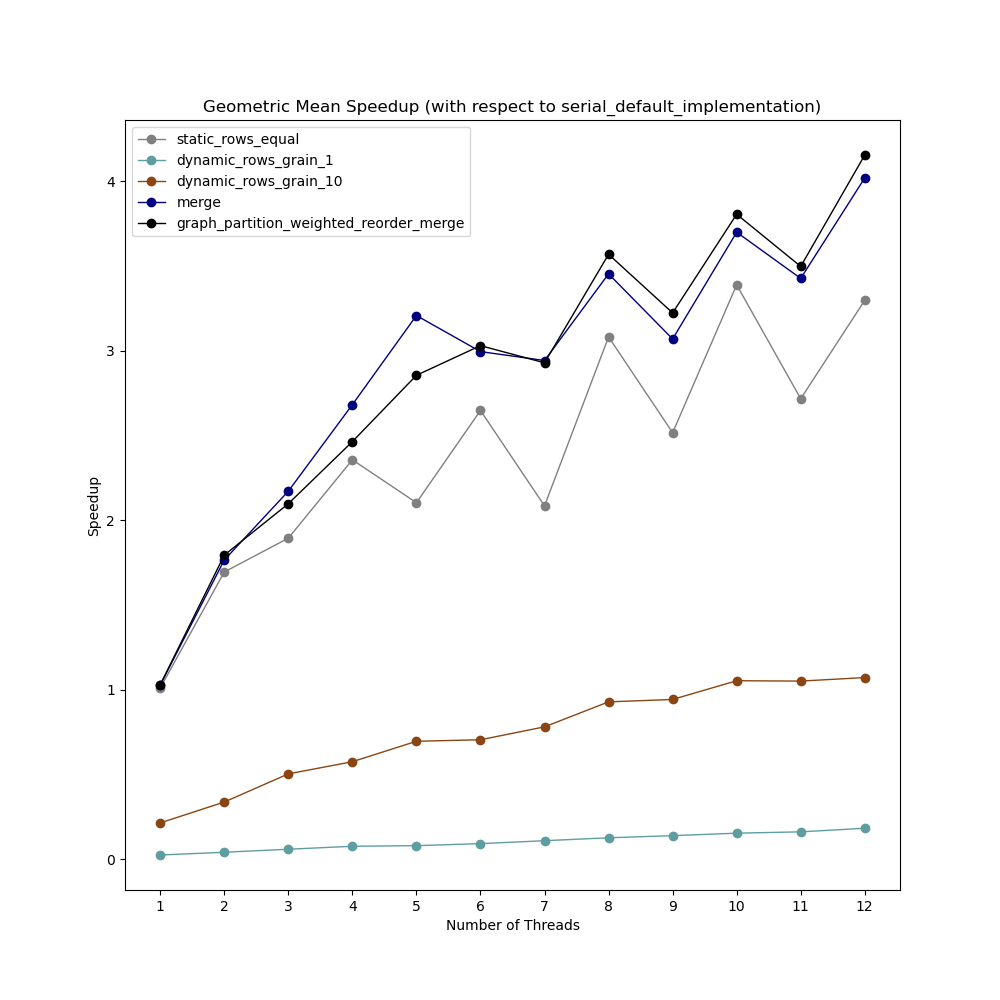
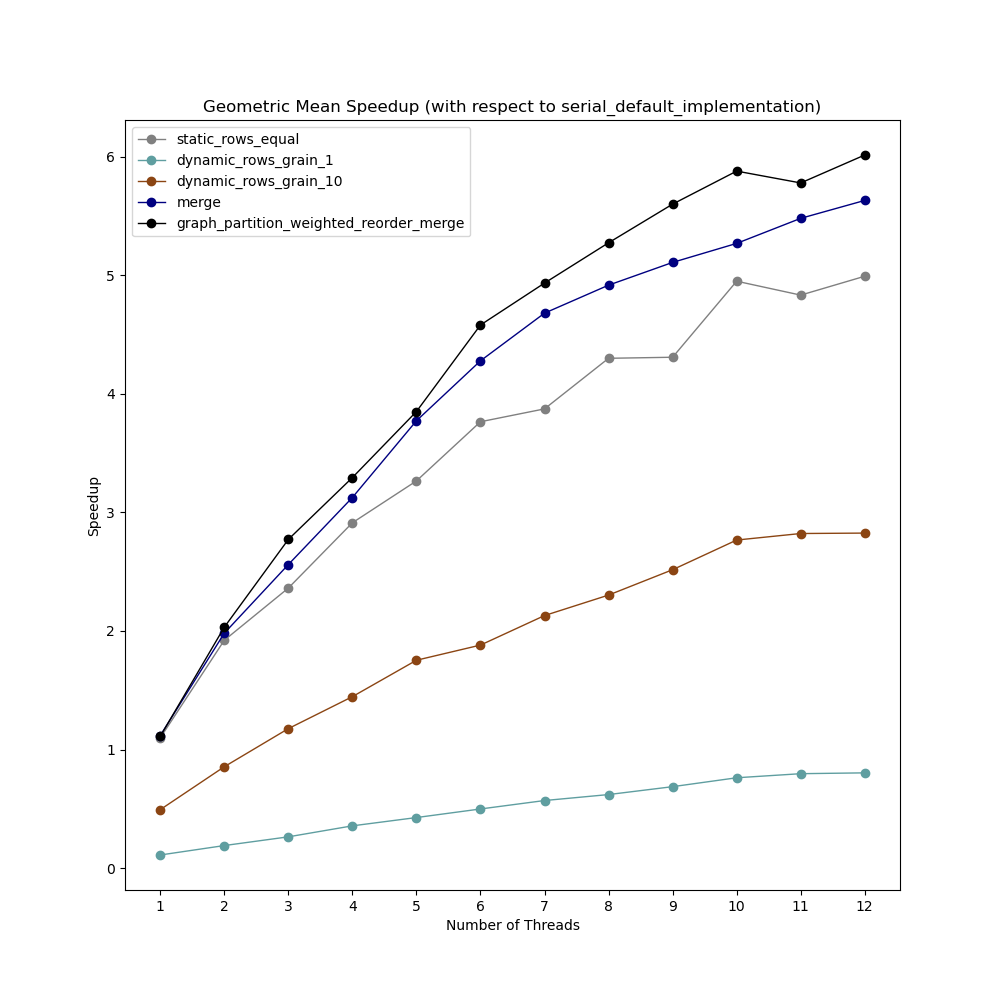
Fix incorrect geometric mean

diff --git a/parallel/spmv/graph.py b/parallel/spmv/graph.py
@@ -24,14 +24,17 @@ METHODS = [
     "graph_partition_weighted_reorder_merge",
 ]
 
-DATASETS = [
-    {"uniform": ["1024-0.1", "8192-0.1", "1048576-3000000"]},
-    {"FEMLAB": ["FEMLAB-poisson3Da", "FEMLAB-poisson3Db"]},
-    {
-        "vanHeukelum": ["vanHeukelum-cage10"]
-    },  # , "vanHeukelum-cage11", "vanHeukelum-cage12"]},
-    {"Williams": ["Williams-webbase-1M"]},
-]
+DATASETS = {
+    "uniform": ["1024-0.1", "8192-0.1", "1048576-3000000"],
+    "FEMLAB": ["FEMLAB-poisson3Da", "FEMLAB-poisson3Db"],
+    "vanHeukelum": [
+        "vanHeukelum-cage10",
+        # "vanHeukelum-cage11",
+        # "vanHeukelum-cage12"
+    ],
+    "Williams": ["Williams-webbase-1M"],
+}
+NUM_MATRICES = sum([len(matrices) for matrices in DATASETS.values()])
 
 COLORS = [
     "gray",
@@ -91,6 +94,7 @@ def plot_speedup_result(results, dataset, matrix, save_location):
 
     plt.legend()
     plt.savefig(save_location)
+    plt.close()
 
 
 def plot_runtime_result(results, dataset, matrix, save_location):
@@ -114,22 +118,25 @@ def plot_runtime_result(results, dataset, matrix, save_location):
 
     plt.legend()
     plt.savefig(save_location)
+    plt.close()
 
 
-def plot_mean_speedup_result(results, datasets, save_location):
+def plot_mean_speedup_result(results, save_location):
     plt.figure(figsize=(10, 10))
     for method, color in zip(METHODS, COLORS):
-        speedup = [1] * len(NTHREADS)
-        for dataset, matrices in datasets.items():
+        speedups = [1] * len(NTHREADS)
+        for dataset, matrices in DATASETS.items():
             for matrix in matrices:
                 for i, n_thread in enumerate(NTHREADS):
-                    speedup[i] *= (
+                    speedups[i] *= (
                         results[dataset][matrix][DEFAULT_METHOD][n_thread]
                         / results[dataset][matrix][method][n_thread]
                     )
+
+        mean_speedups = [speedup ** (1 / NUM_MATRICES) for speedup in speedups]
         plt.plot(
             NTHREADS,
-            speedup,
+            mean_speedups,
             label=method,
             color=color,
             marker="o",
@@ -145,22 +152,25 @@ def plot_mean_speedup_result(results, datasets, save_location):
 
     plt.legend()
     plt.savefig(save_location)
+    plt.close()
 
 
-def plot_mean_speedup_separate_result(results, datasets, save_folder):
+def plot_mean_speedup_separate_result(results, save_folder):
     for method, color in zip(METHODS, COLORS):
         plt.figure(figsize=(10, 10))
-        speedup = [1] * len(NTHREADS)
-        for dataset, matrices in datasets.items():
+        speedups = [1] * len(NTHREADS)
+        for dataset, matrices in DATASETS.items():
             for matrix in matrices:
                 for i, n_thread in enumerate(NTHREADS):
-                    speedup[i] *= (
+                    speedups[i] *= (
                         results[dataset][matrix][DEFAULT_METHOD][n_thread]
                         / results[dataset][matrix][method][n_thread]
                     )
+
+        mean_speedups = [speedup ** (1 / NUM_MATRICES) for speedup in speedups]
         plt.plot(
             NTHREADS,
-            speedup,
+            mean_speedups,
             label=method,
             color=color,
             marker="o",
@@ -187,30 +197,23 @@ if __name__ == "__main__":
     os.makedirs(os.path.join(GRAPH_FOLDER, MEAN_SPEEDUP_FOLDER), exist_ok=True)
 
     results = load_json()
-    for datasets in DATASETS:
-        for dataset, matrices in datasets.items():
-            for matrix in matrices:
-                plot_speedup_result(
-                    results,
-                    dataset,
-                    matrix,
-                    os.path.join(
-                        GRAPH_FOLDER, SPEEDUP_FOLDER, f"{dataset}-{matrix}.png"
-                    ),
-                )
-                plot_runtime_result(
-                    results,
-                    dataset,
-                    matrix,
-                    os.path.join(
-                        GRAPH_FOLDER, RUNTIME_FOLDER, f"{dataset}-{matrix}.png"
-                    ),
-                )
-
-            plot_mean_speedup_result(
-                results, datasets, os.path.join(GRAPH_FOLDER, "mean-speedup.png")
+    for dataset, matrices in DATASETS.items():
+        for matrix in matrices:
+            plot_speedup_result(
+                results,
+                dataset,
+                matrix,
+                os.path.join(GRAPH_FOLDER, SPEEDUP_FOLDER, f"{dataset}-{matrix}.png"),
+            )
+            plot_runtime_result(
+                results,
+                dataset,
+                matrix,
+                os.path.join(GRAPH_FOLDER, RUNTIME_FOLDER, f"{dataset}-{matrix}.png"),
             )
 
-            plot_mean_speedup_separate_result(
-                results, datasets, os.path.join(GRAPH_FOLDER, MEAN_SPEEDUP_FOLDER)
-            )
+    plot_mean_speedup_result(results, os.path.join(GRAPH_FOLDER, "mean-speedup.png"))
+
+    plot_mean_speedup_separate_result(
+        results, os.path.join(GRAPH_FOLDER, MEAN_SPEEDUP_FOLDER)
+    )
